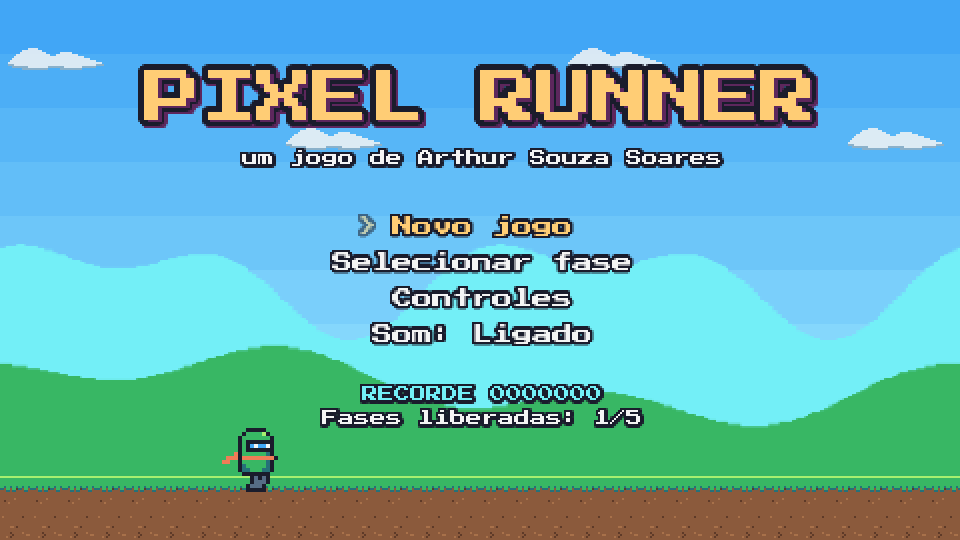
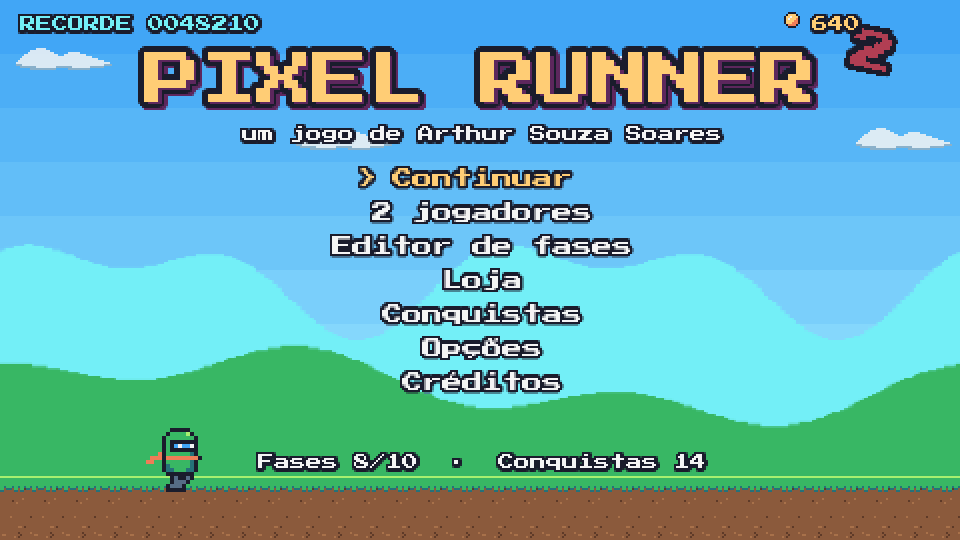
:memo: docs: Atualiza README com as novidades do Pixel Runner 2
Claude-Session: https://claude.ai/code/session_0188FKnojtbrGebU7SeKyfRT

diff --git a/src/scenes/LevelScene.ts b/src/scenes/LevelScene.ts
@@ -1,7 +1,7 @@
 import Phaser from 'phaser';
 import { sfx } from '../audio/Sfx';
 import { COLORS } from '../gfx/palette';
-import { ensurePixSkin, PLAYER2_COLORS } from '../gfx/skins';
+import { ensurePixSkin, ensurePlayer2Skin } from '../gfx/skins';
 import { findSkin, findTrail } from '../logic/shop';
 import { createTrailEmitter } from './ShopScene';
 import { createBackgroundTextures, createMoverTexture, createTileset, GAME_HEIGHT, GAME_WIDTH } from '../gfx/textures';
@@ -288,7 +288,7 @@ export class LevelScene extends Phaser.Scene {
 
   private createPlayer(index: number, x: number, y: number): Player {
     const skin = findSkin(saveManager.get().equippedSkin);
-    const texture = index === 0 ? ensurePixSkin(this, skin.id, skin.colors) : ensurePixSkin(this, 'p2', PLAYER2_COLORS);
+    const texture = index === 0 ? ensurePixSkin(this, skin.id, skin.colors) : ensurePlayer2Skin(this, skin.colors);
     const player = new Player(this, x, y, texture, index);
     for (const a of saveManager.get().abilities) player.abilities.add(a);
     player.isWallAt = (wx, wy) => {
@@ -969,7 +969,7 @@ export class LevelScene extends Phaser.Scene {
     if (this.mode === 'race') {
       const winner = player.index + 1;
       this.showPanel(`JOGADOR ${winner} VENCEU!`, [`Tempo: ${formatTime(this.elapsed)}`, `Moedas P1: ${this.raceCoins[0]}   P2: ${this.raceCoins[1]}`], 'Boa corrida!', winner === 1 ? COLORS.lightGreen : COLORS.cyan);
-      this.time.delayedCall(3400, () => this.fadeTo(() => this.scene.start('GameOver', { victory: true, score: 0, levelIndex: this.levelIndex, isNewRecord: false, mode: 'race', winner })));
+      this.time.delayedCall(3400, () => this.fadeTo(() => this.scene.start('GameOver', { victory: true, score: 0, levelIndex: this.levelIndex, isNewRecord: false, mode: 'race', winner, winnerTexture: player.texture.key })));
       return;
     }
 
@@ -1078,6 +1078,11 @@ export class LevelScene extends Phaser.Scene {
       raceProgress: this.mode === 'race' ? this.players.map((p) => Phaser.Math.Clamp(p.x / width, 0, 1)) : NO_NUMBERS,
       raceCoins: this.mode === 'race' ? this.raceCoins : NO_NUMBERS,
     };
+  }
+
+  /** Textura de cada jogador (o HUD usa nos marcadores da corrida). */
+  playerTextures(): string[] {
+    return this.players.map((p) => p.texture.key);
   }
 
   getLevelInfo(): { number: number; name: string; subtitle: string; mode: GameMode; custom: boolean } {

diff --git a/src/scenes/TwoPlayerScene.ts b/src/scenes/TwoPlayerScene.ts
@@ -1,7 +1,8 @@
 import Phaser from 'phaser';
 import { sfx } from '../audio/Sfx';
 import { COLORS } from '../gfx/palette';
-import { ensurePixSkin, PLAYER2_COLORS } from '../gfx/skins';
+import { ensurePixSkin, ensurePlayer2Skin } from '../gfx/skins';
+import { findSkin } from '../logic/shop';
 import { GAME_HEIGHT, GAME_WIDTH } from '../gfx/textures';
 import type { GameMode } from '../input/controls';
 import { LEVELS } from '../levels';
@@ -41,8 +42,9 @@ export class TwoPlayerScene extends Phaser.Scene {
     this.cursors = [58, 84].map((y) => pixelText(this, 0, y, '>', { size: 10, color: COLORS.yellow }).setOrigin(0.5));
 
     // Controles de cada jogador
-    this.add.image(cx - 110, 160, 'pix', 0).setScale(2);
-    this.add.image(cx + 110, 160, ensurePixSkin(this, 'p2', PLAYER2_COLORS), 0).setScale(2);
+    const skin = findSkin(saveManager.get().equippedSkin);
+    this.add.image(cx - 110, 160, ensurePixSkin(this, skin.id, skin.colors), 0).setScale(2);
+    this.add.image(cx + 110, 160, ensurePlayer2Skin(this, skin.colors), 0).setScale(2);
     pixelText(this, cx - 110, 186, 'JOGADOR 1\nA D  mover\nW  pular\nS  dash\nE  investida', { size: 8, align: 'center', color: COLORS.lightGreen }).setOrigin(0.5, 0).setLineSpacing(3);
     pixelText(this, cx + 110, 186, 'JOGADOR 2\nSetas  mover\nCima  pular\nBaixo  dash\nEnter  investida', { size: 8, align: 'center', color: COLORS.cyan }).setOrigin(0.5, 0).setLineSpacing(3);
     pixelText(this, cx, GAME_HEIGHT - 10, 'Enter/Espaço: jogar   Esc: voltar', { size: 8, color: COLORS.gray }).setOrigin(0.5);

diff --git a/src/scenes/MenuScene.ts b/src/scenes/MenuScene.ts
@@ -4,6 +4,8 @@ import { COLORS } from '../gfx/palette';
 import { GAME_HEIGHT, GAME_WIDTH } from '../gfx/textures';
 import { TOTAL_LEVELS } from '../levels';
 import { formatScore } from '../logic/score';
+import { findSkin } from '../logic/shop';
+import { ensurePixSkin } from '../gfx/skins';
 import { saveManager } from '../systems/saveManager';
 import { MenuList } from '../ui/MenuList';
 import { pixelText } from '../ui/text';
@@ -31,7 +33,9 @@ export class MenuScene extends Phaser.Scene {
     pixelText(this, cx, 66, 'um jogo de Arthur Souza Soares', { size: 8, color: COLORS.white }).setOrigin(0.5);
 
     // Pix correndo no chão do menu.
-    const pix = this.add.sprite(70, GAME_HEIGHT - 40, 'pix').play('pix-run').setScale(2);
+    const skin = findSkin(saveManager.get().equippedSkin);
+    const skinKey = ensurePixSkin(this, skin.id, skin.colors);
+    const pix = this.add.sprite(70, GAME_HEIGHT - 40, skinKey).play(`${skinKey}-run`).setScale(2);
     this.tweens.add({ targets: pix, x: GAME_WIDTH - 70, duration: 5000, yoyo: true, repeat: -1, ease: 'Sine.easeInOut', onYoyo: () => pix.setFlipX(true), onRepeat: () => pix.setFlipX(false) });
 
     const panel = this.add.rectangle(cx, 140, 220, 126, COLORS.ink, 0.65).setStrokeStyle(2, COLORS.white, 0.4);

diff --git a/src/scenes/GameOverScene.ts b/src/scenes/GameOverScene.ts
@@ -15,8 +15,9 @@ export interface GameOverData {
   levelIndex: number;
   isNewRecord: boolean;
   mode?: GameMode;
-  /** Corrida: jogador vencedor (1 ou 2). */
+  /** Corrida: jogador vencedor (1 ou 2) e a textura dele. */
   winner?: number;
+  winnerTexture?: string;
 }
 
 /** Tela de fim de jogo (derrota ou vitória). */
@@ -88,7 +89,7 @@ export class GameOverScene extends Phaser.Scene {
     const title = pixelText(this, cx, 60, `JOGADOR ${data.winner} VENCEU!`, { size: 18, color, strokeThickness: 5 }).setOrigin(0.5);
     title.setScale(0.3);
     this.tweens.add({ targets: title, scale: 1, duration: 500, ease: 'Back.easeOut' });
-    const key = data.winner === 1 ? 'pix' : 'pix-p2';
+    const key = data.winnerTexture ?? 'pix';
     const pix = this.add.sprite(cx, 112, this.textures.exists(key) ? key : 'pix', 0).setScale(3);
     this.tweens.add({ targets: pix, y: 100, duration: 300, yoyo: true, repeat: -1, ease: 'Quad.easeOut' });
     const next = Math.min(data.levelIndex + 1, saveManager.get().unlockedLevels - 1);

diff --git a/src/gfx/skins.ts b/src/gfx/skins.ts
@@ -26,3 +26,17 @@ export function ensurePixSkin(scene: Phaser.Scene, id: string, colors: ColorMap)
 
 /** Skin padrão do jogador 2 (capacete azul, cachecol amarelo). */
 export const PLAYER2_COLORS: ColorMap = { l: 'c', t: 'B', T: 'b', o: 'y' };
+
+/** Alternativas para o jogador 2 caso a skin do jogador 1 tenha a mesma cor de capacete. */
+const PLAYER2_OPTIONS: { id: string; colors: ColorMap }[] = [
+  { id: 'p2', colors: PLAYER2_COLORS },
+  { id: 'p2-red', colors: { l: 'o', t: 'r', T: 'p', o: 'y' } },
+  { id: 'p2-purple', colors: { l: 'w', t: 'p', T: 'n', o: 'l' } },
+];
+
+/** Escolhe e cria a skin do jogador 2, sempre diferente do capacete do jogador 1. */
+export function ensurePlayer2Skin(scene: Phaser.Scene, player1Colors: ColorMap): string {
+  const p1Helmet = player1Colors.t ?? 't';
+  const choice = PLAYER2_OPTIONS.find((o) => o.colors.t !== p1Helmet) ?? PLAYER2_OPTIONS[0];
+  return ensurePixSkin(scene, choice.id, choice.colors);
+}

diff --git a/src/scenes/HUDScene.ts b/src/scenes/HUDScene.ts
@@ -91,8 +91,9 @@ export class HUDScene extends Phaser.Scene {
     const w = GAME_WIDTH - 240;
     this.add.rectangle(x0, y, w, 4, COLORS.ink, 0.7).setOrigin(0, 0.5).setStrokeStyle(1, COLORS.white, 0.6);
     this.add.image(x0 + w + 8, y - 4, 'portal', 0).setScale(0.5);
-    const p1 = this.add.image(x0, y - 6, 'pix', 0).setScale(0.75);
-    const p2 = this.add.image(x0, y - 6, this.textures.exists('pix-p2') ? 'pix-p2' : 'pix', 0).setScale(0.75);
+    const [t1, t2] = this.level.playerTextures();
+    const p1 = this.add.image(x0, y - 6, t1 ?? 'pix', 0).setScale(0.75);
+    const p2 = this.add.image(x0, y - 6, t2 ?? 'pix', 0).setScale(0.75);
     this.raceMarkers = [p1, p2];
     this.raceMarkers.forEach((m) => m.setData('x0', x0).setData('w', w));
   }

diff --git a/README.md b/README.md
@@ -1,4 +1,4 @@
-# Pixel Runner
+# Pixel Runner 2
 
 Jogo de plataforma 2D em pixel art feito para o navegador com **Phaser 3**, **TypeScript** e **Vite**.
 Projeto de portfólio de **Arthur Souza Soares**.
@@ -7,50 +7,85 @@ Projeto de portfólio de **Arthur Souza Soares**.
 
 ![Gameplay do Pixel Runner](docs/gameplay.gif)
 
-| Menu | Fase 2 — Caverna de Cristal |
+| Menu | Mapa dos mundos |
 | :---: | :---: |
-| ![Menu inicial](docs/menu.png) | ![Fase 2](docs/fase2.png) |
-| **Arena do chefe** | **Vitória** |
-| ![Arena do chefe](docs/chefe.png) | ![Tela de vitória](docs/vitoria.png) |
+| ![Menu inicial](docs/menu.png) | ![Mapa de seleção de mundos](docs/mapa.png) |
+| **Mundo 2 — água e nado** | **Mundo 2 — correntes de ar** |
+| ![Recife Submerso](docs/mundo2-recife.png) | ![Penhasco dos Ventos](docs/mundo2-vento.png) |
+| **Chefe: Tempestade Rubra** | **Modo cooperativo (câmera com zoom)** |
+| ![Chefe do Mundo 2](docs/chefe-tempestade.png) | ![Dois jogadores](docs/cooperativo.png) |
+| **Editor de fases** | **Loja** |
+| ![Editor de fases](docs/editor.png) | ![Loja de skins e rastros](docs/loja.png) |
+| **Conquistas** | **Chefe: Núcleo Ancestral** |
+| ![Conquistas](docs/conquistas.png) | ![Arena do primeiro chefe](docs/chefe.png) |
 
 ---
 
 ## Sobre o jogo
 
-Você controla **Pix**, um pequeno robô corredor de capacete verde e cachecol laranja, em 5 fases de dificuldade crescente até enfrentar o **Núcleo Ancestral**, o chefe da fortaleza final.
+Você controla **Pix**, um pequeno robô corredor de capacete verde e cachecol laranja, através de **2 mundos e 10 fases**, enfrentando o **Núcleo Ancestral** e a **Tempestade Rubra**.
 
 Todo o visual e o som são gerados por código, sem arquivos de imagem ou áudio externos:
 
 - **Sprites** desenhados como pixel art em texto (`src/gfx/sprites.ts`) e convertidos em texturas na inicialização.
-- **Tiles e cenários** com parallax gerados proceduralmente para cada tema.
-- **Efeitos sonoros e música** sintetizados em tempo real com a **Web Audio API**.
+- **Tiles e cenários** com parallax gerados proceduralmente para cada um dos 10 temas.
+- **Efeitos sonoros e trilha sonora** sintetizados em tempo real com a **Web Audio API** (uma música por tema, mais chefes, mapa e créditos).
 
-### Recursos
+## Novidades do Pixel Runner 2
 
-- Correr, pular (com altura variável, *coyote time* e *buffer* de pulo), **pulo duplo** e **dash**
-- 5 fases: Campos Verdes, Caverna de Cristal, Fábrica Enferrujada, Picos Gelados e Fortaleza do Núcleo
-- 4 tipos de inimigo com padrões diferentes: gosma (patrulha), saltador (pula em direção ao jogador), morcego (voo em "8") e torreta (atira)
-- **Chefe** com várias fases de ataque: saltos com onda de choque, rajadas de tiros e investidas quando está enfurecido
-- Moedas (vida extra a cada 50), checkpoints, plataformas móveis e espinhos
-- Combo ao pisar em vários inimigos seguidos sem tocar o chão
-- Bônus de tempo e de coleta de todas as moedas ao fim de cada fase
-- Menu inicial, seleção de fases, pausa, vidas, placar e tela de fim de jogo
-- **Recorde, fases desbloqueadas, melhores tempos e preferência de som salvos no `localStorage`**
-- Partículas (poeira, brilhos, confete), rastro do dash e tremida de câmera
-- **Controles por teclado** e **botões na tela** em celulares e tablets
+- 🌍 **Mundo 2 — Arquipélago Celeste**: 5 fases novas com **gelo escorregadio**, **molas**, **plataformas que caem**, **vento** (empurrões e correntes de ar) e **água com nado**, além do peixe-espinho e do inimigo blindado.
+- ⛈ **Novo chefe**, a **Tempestade Rubra**, com **3 fases de ataque**: chuva de gelo e rasantes, explosões radiais e mergulhos com onda de choque.
+- 🧗 **Habilidades desbloqueáveis** com tutorial ao ganhar cada uma: **escalar paredes**, **planar** e **investida** (quebra blocos rachados e derrota blindados).
+- 👥 **2 jogadores no mesmo teclado**: modo **cooperativo** (vidas compartilhadas) e **corrida** (quem chega primeiro vence), com **câmera que acompanha os dois** e dá zoom.
+- 🛠 **Editor de fases**: grade de tiles, inimigos, moedas e checkpoints; **3 slots no localStorage**; **exportar/importar JSON**; **teste instantâneo** da fase criada.
+- 🛍 **Loja**: troque as moedas por **8 skins de cores** do Pix e **7 rastros de partícula**.
+- 🏆 **23 conquistas**, **estatísticas do jogador** e **tela de créditos**.
+- 🗺 **Mapa de seleção de mundos**, **trilha sonora por mundo** e **opções de volume** (geral, música e efeitos).
+- 🎮 **Gamepad** no jogo e em todos os menus, junto com teclado e toque.
+
+## Recursos
+
+- Correr, pular (altura variável, *coyote time* e *buffer* de pulo), **pulo duplo**, **dash** e as 3 habilidades
+- 10 fases: Campos Verdes, Caverna de Cristal, Fábrica Enferrujada, Picos Gelados, Fortaleza do Núcleo, Lago Congelado, Recife Submerso, Ruínas Desmoronando, Penhasco dos Ventos e Olho da Tempestade
+- 6 tipos de inimigo: gosma, saltador, morcego, torreta, peixe-espinho e gosma blindada
+- 2 chefes com padrões de ataque diferentes e música própria
+- Moedas (vida extra a cada 50), checkpoints, plataformas móveis, espinhos, combos e bônus de tempo
+- Recorde, progresso, melhores tempos, habilidades, carteira, compras, conquistas, estatísticas e volumes **salvos no `localStorage`** (saves da v1 são migrados automaticamente)
+- Partículas, rastros, tremida de câmera e transições
+- **Teclado**, **botões na tela** (celular/tablet) e **gamepad**
 
 ## Controles
 
-| Ação | Teclado | Toque |
-| --- | --- | --- |
-| Correr | `←` `→` ou `A` `D` | Setas na tela |
-| Pular | `Espaço`, `W`, `Z` ou `↑` | Botão **A** |
-| Pulo duplo | Pular de novo no ar | **A** no ar |
-| Dash | `Shift`, `X` ou `K` | Botão **B** |
-| Pausar | `Esc` ou `P` | Botão **II** |
-| Ligar/desligar som | `M` | Menu de pausa |
+### Um jogador
 
-Dica: pise nos inimigos ou acerte-os com o dash. O dash também atravessa projéteis. O chefe só é derrotado com pisões!
+| Ação | Teclado | Toque | Gamepad |
+| --- | --- | --- | --- |
+| Correr | `←` `→` ou `A` `D` | Setas na tela | Analógico / direcional |
+| Pular / nadar | `Espaço`, `W`, `Z` ou `↑` | Botão **A** | **A** |
+| Pulo duplo | Pular de novo no ar | **A** no ar | **A** no ar |
+| Dash | `Shift`, `X` ou `K` | Botão **B** | **X** / **Y** / **RB** |
+| Planar* | Segurar o pulo caindo | Segurar **A** | Segurar **A** |
+| Escalar* | No ar, segurar a direção da parede | Idem | Idem |
+| Investida* | Segurar `C` ou `L` e soltar | Segurar **C** | Segurar **B** / **LB** |
+| Pausar | `Esc` ou `P` | Botão **II** | **Start** |
+| Ligar/desligar som | `M` | Menu de opções | — |
+
+\* Habilidades conquistadas no Mundo 2.
+
+### Dois jogadores (mesmo teclado)
+
+| Ação | Jogador 1 | Jogador 2 |
+| --- | --- | --- |
+| Mover | `A` `D` | `←` `→` |
+| Pular | `W` | `↑` |
+| Dash | `S` | `↓` |
+| Investida | `E` | `Enter` |
+
+Com dois gamepads, cada um comanda um jogador; com apenas um, ele fica com o jogador 2.
+
+### Editor de fases
+
+Clique (ou toque) para desenhar, botão direito apaga, `1`–`9` escolhem ferramentas, setas ou roda do mouse rolam o mapa, `T` testa, `Ctrl+S` salva, `Ctrl+Z` desfaz e `Esc` abre o menu (slots, tema, largura, exportar/importar JSON).
 
 ## Como rodar localmente
 
@@ -64,8 +99,6 @@ npm install
 npm run dev
 ```
 
-Outros comandos:
-
 | Comando | Descrição |
 | --- | --- |
 | `npm run dev` | Servidor de desenvolvimento em `http://localhost:5173/pixel-runner/` |
@@ -77,51 +110,72 @@ Outros comandos:
 
 ```
 src/
-├── main.ts               # Configuração do Phaser e inicialização
-├── scenes/               # Cenas: Boot, Menu, LevelSelect, Level (Fase), HUD, Pause, GameOver
-├── levels/               # Fases em arquivos de dados (mapas ASCII + plataformas móveis + dicas)
+├── main.ts               # Configuração do Phaser, gamepad e inicialização
+├── scenes/               # Boot, Menu, WorldMap, Level (Fase), HUD, Pause, Tutorial, GameOver,
+│                         # TwoPlayer, Editor, Shop, Achievements, Options, Credits, Toast
+├── levels/               # As 10 fases em arquivos de dados (mapas ASCII + água, vento, plataformas, dicas)
 ├── logic/                # Lógica pura, sem Phaser (testada com Vitest)
 │   ├── score.ts          #   pontuação, vidas, combos e bônus
 │   ├── progress.ts       #   desbloqueio e sequência de fases
-│   ├── save.ts           #   leitura/escrita e validação do save
-│   └── levelParser.ts    #   conversão do mapa ASCII em dados
-├── objects/              # Player, inimigos, chefe e plataformas móveis
-├── gfx/                  # Paleta, sprites em pixel art e geração de texturas
-├── audio/                # Efeitos e música com Web Audio
-├── input/                # Estado dos controles de toque
-├── systems/              # Ponte entre o save e o localStorage
+│   ├── save.ts           #   save versionado, validação e migração
+│   ├── levelParser.ts    #   conversão do mapa ASCII em dados
+│   ├── abilities.ts      #   habilidades desbloqueáveis
+│   ├── editor.ts         #   editor: edição, validação, JSON e slots
+│   ├── shop.ts           #   loja: catálogo, carteira, compra e equipamento
+│   ├── stats.ts          #   estatísticas do jogador
+│   ├── achievements.ts   #   23 conquistas
+│   └── audioSettings.ts  #   volumes
+├── objects/              # Player, inimigos, chefes, molas, plataformas móveis e que caem
+├── gfx/                  # Paleta, sprites em pixel art, skins e geração de texturas
+├── audio/                # Efeitos e músicas com Web Audio (barramentos de volume separados)
+├── input/                # Teclado por jogador, toque e gamepad
+├── systems/              # Ponte entre o save e o localStorage (estatísticas em lote, conquistas)
 └── ui/                   # Texto pixelado e menus navegáveis
-tests/                    # Testes do Vitest
+tests/                    # 113 testes do Vitest
 ```
 
 ### Formato das fases
 
-Cada fase é um arquivo em `src/levels/` com um mapa ASCII de 17 linhas:
+Cada fase é um arquivo em `src/levels/` com um mapa ASCII de 17 linhas (o mesmo formato usado pelo editor e pelo JSON exportado):
 
 | Caractere | Significado |
 | --- | --- |
 | `#` | Chão (o topo é escolhido automaticamente) |
-| `X` | Bloco sólido |
-| `-` | Plataforma atravessável por baixo |
-| `^` | Espinhos |
+| `X` / `I` / `Q` | Bloco sólido / gelo escorregadio / bloco rachado |
+| `-` / `F` | Plataforma atravessável / plataforma que cai |
+| `^` / `S` | Espinhos / mola |
 | `o` | Moeda |
-| `P` / `G` | Início / chegada |
-| `K` | Checkpoint |
-| `w` `h` `b` `t` | Gosma, saltador, morcego, torreta |
+| `P` / `G` / `K` | Início / chegada / checkpoint |
+| `w` `h` `b` `t` `f` `a` | Gosma, saltador, morcego, torreta, peixe, blindado |
+| `A` | Orbe de habilidade |
 | `B` / `\|` | Chefe / portão da arena |
 
-Plataformas móveis e dicas de tutorial ficam em listas separadas no mesmo arquivo. Os testes verificam se todas as fases são válidas (início, chegada, chão sob o jogador etc.).
+Água, vento, plataformas móveis e dicas ficam em listas separadas no mesmo arquivo. Os testes verificam que todas as fases são válidas.
+
+### Formato do JSON exportado pelo editor
+
+```json
+{
+  "format": "pixel-runner-level",
+  "version": 1,
+  "name": "Minha fase",
+  "theme": "grass",
+  "map": ["....", "...", "17 linhas no total"]
+}
+```
 
 ## Publicação
 
-O deploy é feito automaticamente no **GitHub Pages** pelo workflow `.github/workflows/deploy.yml` a cada push na `main`: ele instala as dependências, roda os testes, gera o build (com `base: "/pixel-runner/"`) e publica a pasta `dist/`.
+O deploy é automático no **GitHub Pages** pelo workflow `.github/workflows/deploy.yml` a cada push na `main`: instala as dependências, roda os testes, gera o build (com `base: "/pixel-runner/"`) e publica a pasta `dist/`.
 
 > Na primeira vez, ative em **Settings → Pages → Build and deployment → Source: GitHub Actions**.
 
+O planejamento da v2 está em [PLANO_V2.md](PLANO_V2.md) e as decisões de design em [DECISOES.md](DECISOES.md).
+
 ## Créditos
 
-- Código, design de fases, pixel art e sons: **Arthur Souza Soares**
+- Código, design de fases, pixel art, música e sons: **Arthur Souza Soares**
 - Fonte [Press Start 2P](https://fonts.google.com/specimen/Press+Start+2P) (SIL Open Font License), empacotada via `@fontsource`
-- Feito com [Phaser 3](https://phaser.io), [TypeScript](https://www.typescriptlang.org) e [Vite](https://vite.dev)
+- Feito com [Phaser 3](https://phaser.io), [TypeScript](https://www.typescriptlang.org), [Vite](https://vite.dev) e [Vitest](https://vitest.dev)
 
 Licença MIT.

diff --git a/DECISOES.md b/DECISOES.md
@@ -37,3 +37,5 @@ Registro das decisões tomadas durante o desenvolvimento da v2 sem consulta pré
 | 31 | 8 | Fora da fase (menus, mapa, pausa, tutorial) o controle simula teclas: direcional = setas (com repetição ao segurar), A/Start = Enter, B/Select = Esc. | Todos os menus passam a funcionar com controle sem reescrever cada um. |
 | 32 | 8 | Em 2 jogadores, com dois controles cada um comanda um jogador; com um só controle, ele fica com o jogador 2 e o jogador 1 usa o teclado. | Permite jogar a dois com apenas um controle extra. |
 | 33 | 9 | O save passou para `version: 2`; saves da v1 são lidos normalmente e recebem valores padrão para os campos novos. | Ninguém perde o progresso da v1. |
+| 34 | 10 | Se a skin do jogador 1 tiver a mesma cor de capacete do jogador 2, o jogador 2 troca automaticamente para vermelho ou roxo. | Encontrado ao gerar os prints: com a skin "Oceano" os dois ficavam iguais. |
+| 35 | 10 | O README mantém o GIF de gameplay da v1 e ganha uma galeria de prints de todos os recursos novos. | Mostra o jogo completo sem pesar o repositório com vários GIFs. |

diff --git a/PLANO_V2.md b/PLANO_V2.md
@@ -1,6 +1,6 @@
 # Plano — Pixel Runner 2
 
-Checklist de desenvolvimento da versão 2. Ao fim de cada fase: testes, build, correções, atualização deste plano, commit e push na `main`.
+Checklist de desenvolvimento da versão 2. **Status: todas as fases concluídas.** Ao fim de cada fase: testes, build, correções, atualização deste plano, commit e push na `main`.
 Decisões tomadas sem consulta ficam registradas em [DECISOES.md](DECISOES.md).
 
 ## Fase 1 — Mundo 2
@@ -61,4 +61,4 @@ Decisões tomadas sem consulta ficam registradas em [DECISOES.md](DECISOES.md).
   - Teste de fumaça no navegador passou por todas as cenas, as 10 fases e os modos sem erros, a 60 FPS.
 
 ## Fase 10 — Documentação
-- [ ] README atualizado com as novidades e o link do jogo
+- [x] README atualizado com as novidades e o link do jogo
